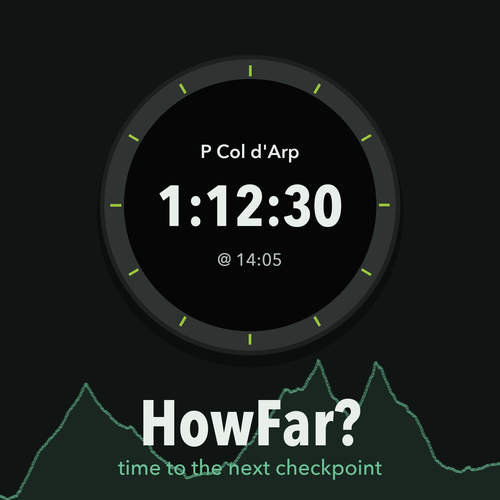
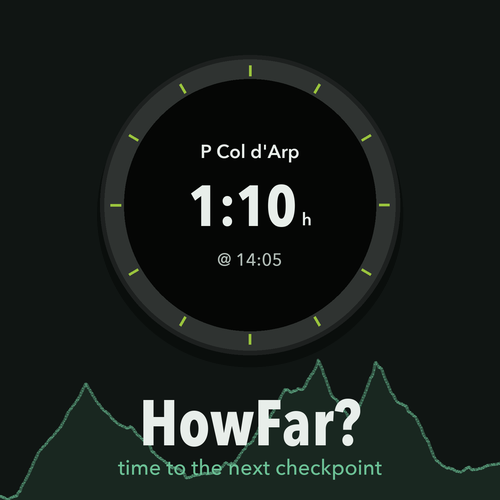
Show the time only as precisely as it's known
- Watch: h:mm in 5-minute steps from an hour out, whole minutes from 5 minutes out, m:ss in
  the last 5 minutes, with the unit in small type next to the digits; the arrival time is
  rounded the same way. Grey digits and "(learning)" for the first ~2 km of an activity.
- Site: the demo watch, the example watch and the store images show the same.
- Site: the "Compare with" key lines up with the other entry.
- Research: error_by_time.py measures how the error grows with the time left.

Changed region(s): [[0.3, 0.36, 0.69, 0.48]]

diff --git a/docs/js/demo.js b/docs/js/demo.js
@@ -32,6 +32,21 @@
     var h = Math.floor(s / 3600), m = Math.floor((s % 3600) / 60), x = s % 60;
     return h > 0 ? h + ":" + pad(m) + ":" + pad(x) : m + ":" + pad(x);
   }
+  // the countdown as the watch shows it (WpUtil.etaText): h:mm in 5-minute steps from an hour
+  // out, whole minutes from 5 minutes out, m:ss in the last 5 minutes
+  function etaStep(s) { return s >= 3450 ? 300 : s >= 300 ? 60 : 1; }
+  function etaText(s) {
+    s = Math.max(0, Math.round(s));
+    var r = Math.round(s / etaStep(s)) * etaStep(s);
+    if (r >= 3600) return [Math.floor(r / 3600) + ":" + pad(Math.floor((r % 3600) / 60)), "h"];
+    if (r >= 300) return [String(Math.round(r / 60)), "min"];
+    return [Math.floor(r / 60) + ":" + pad(r % 60), "min"];
+  }
+  // arrival clock, rounded like the countdown
+  function arrival(raceSec, e) {
+    var stepMs = (etaStep(e) >= 300 ? 5 : 1) * 60000;
+    return clockFmt.format(new Date(Math.round((startMs + (raceSec + e) * 1000) / stepMs) * stepMs));
+  }
   function hm(s) {
     s = Math.max(0, Math.round(s));
     return Math.floor(s / 3600) + " h " + pad(Math.floor((s % 3600) / 60)) + " min";
@@ -67,8 +82,10 @@
     var marker = cfg(state.main).ahead ? "P " : "~ ";
 
     $("wLabel").textContent = marker + wp.name;
-    $("wTime").textContent = dur(e);
-    $("wArrive").textContent = "@ " + clock(f[T] + e);
+    var shown = etaText(e), learning = f[CD] < 2000; // the watch greys the time for its first ~2 km
+    $("wTime").innerHTML = shown[0] + '<span class="w-unit">' + shown[1] + "</span>";
+    $("wTime").classList.toggle("learning", learning);
+    $("wArrive").textContent = "@ " + arrival(f[T], e) + (learning ? " (learning)" : "");
 
     $("raceClock").textContent = dur(f[T]);
     $("rTime").innerHTML = "<b>" + hm(f[T]) + "</b> · " + clock(f[T]) + " local time" +
@@ -77,7 +94,7 @@
     var climb = wp.alt - f[ALT];
     $("rNext").innerHTML = "<b>" + wp.name + "</b> · " + km(f[DN]) + " ahead, " +
       (climb >= 0 ? num(climb) + " m higher" : num(-climb) + " m lower");
-    $("rSays").innerHTML = "<b>" + dur(e) + "</b>, arriving at " + clock(f[T] + e);
+    $("rSays").innerHTML = "<b>" + shown[0] + " " + shown[1] + "</b>, arriving at " + arrival(f[T], e);
     $("rActual").innerHTML = "<b>" + dur(f[ACT]) + "</b>, arrived at " + clock(f[T] + f[ACT]) +
       (f[STOPA] >= 60 ? ", including " + Math.round(f[STOPA] / 60) + " min stopped" : "");
     var x = err(f, state.main);

diff --git a/docs/index.html b/docs/index.html
@@ -13,7 +13,7 @@
 <link rel="preconnect" href="https://fonts.googleapis.com">
 <link rel="preconnect" href="https://fonts.gstatic.com" crossorigin>
 <link rel="stylesheet" href="https://fonts.googleapis.com/css2?family=IBM+Plex+Mono:wght@400&family=Public+Sans:wght@400;500;600&family=Saira+Semi+Condensed:wght@500;600;700&display=swap">
-<link rel="stylesheet" href="css/site.css?v=27">
+<link rel="stylesheet" href="css/site.css?v=28">
 </head>
 <body>
 
@@ -55,11 +55,11 @@
         <p class="muted">Add HowFar? to one of your activity's data screens, load a course with checkpoints, and run. It shows three lines, four on a full-screen field.</p>
       </div>
       <div class="explain-grid">
-        <div class="watch watch-small" role="img" aria-label="Example: P Rifugio Deffeyes, 1:18:41, @ 19:12">
+        <div class="watch watch-small" role="img" aria-label="Example: P Rifugio Deffeyes, 1:20 h, @ 19:10">
           <div class="screen">
             <div class="w-label">P Rif. Deffeyes</div>
-            <div class="w-time">1:18:41</div>
-            <div class="w-arrive">@ 19:12</div>
+            <div class="w-time">1:20<span class="w-unit">h</span></div>
+            <div class="w-arrive">@ 19:10</div>
           </div>
         </div>
         <ol class="callouts">
@@ -95,7 +95,7 @@
           <div class="watch" role="img" aria-label="Watch showing the HowFar? field during the race">
             <div class="screen">
               <div class="w-label" id="wLabel">P Col d'Arp</div>
-              <div class="w-time" id="wTime">1:12:30</div>
+              <div class="w-time" id="wTime">1:10<span class="w-unit">h</span></div>
               <div class="w-arrive" id="wArrive">@ 14:05</div>
             </div>
           </div>
@@ -329,6 +329,6 @@
 </footer>
 
 <script src="demo/torx-s1.js?v=13"></script>
-<script src="js/demo.js?v=13"></script>
+<script src="js/demo.js?v=14"></script>
 </body>
 </html>

diff --git a/docs/css/site.css b/docs/css/site.css
@@ -209,6 +209,8 @@ section + section { border-top: 1px solid var(--line-soft); }
 }
 .screen .w-label { align-self: end; font: 600 9.5cqi/1.2 var(--font-body); max-width: 100%; white-space: nowrap; overflow: hidden; text-overflow: ellipsis; }
 .screen .w-time { font: 700 24cqi/1 var(--font-display); font-variant-numeric: tabular-nums; letter-spacing: 0.01em; margin-block: 2.5cqi; white-space: nowrap; }
+.screen .w-unit { font: 600 7.5cqi/1 var(--font-body); margin-left: 1.5cqi; letter-spacing: 0; }
+.screen .w-time.learning { color: var(--screen-ink-2); }
 .screen .w-arrive { align-self: start; font: 500 9cqi/1.2 var(--font-body); color: var(--screen-ink-2); font-variant-numeric: tabular-nums; }
 .watch-caption { font-size: var(--step--1); color: var(--ink-3); text-align: center; max-width: 32ch; }
 
@@ -233,7 +235,7 @@ section + section { border-top: 1px solid var(--line-soft); }
 .chart-box { position: relative; background: var(--surface); border: 1px solid var(--line); border-radius: var(--radius); padding: 10px 8px 4px; overflow-x: auto; }
 .chart-box svg { display: block; width: 100%; height: auto; cursor: crosshair; }
 .chart-box svg.wide { min-width: 560px; } /* full-width charts scroll sideways on phones instead of shrinking their labels */
-.legend { display: flex; flex-wrap: wrap; gap: 6px 16px; font-size: var(--step--1); color: var(--ink-2); }
+.legend { display: flex; flex-wrap: wrap; align-items: center; gap: 6px 16px; font-size: var(--step--1); color: var(--ink-2); }
 .legend i { display: inline-block; width: 18px; height: 3px; border-radius: 2px; vertical-align: middle; margin-right: 6px; }
 .tip {
   position: absolute; pointer-events: none; z-index: 2;

diff --git a/docs/prepare.html b/docs/prepare.html
@@ -10,7 +10,7 @@
 <link rel="preconnect" href="https://fonts.googleapis.com">
 <link rel="preconnect" href="https://fonts.gstatic.com" crossorigin>
 <link rel="stylesheet" href="https://fonts.googleapis.com/css2?family=IBM+Plex+Mono:wght@400&family=Public+Sans:wght@400;500;600&family=Saira+Semi+Condensed:wght@500;600;700&display=swap">
-<link rel="stylesheet" href="css/site.css?v=27">
+<link rel="stylesheet" href="css/site.css?v=28">
 </head>
 <body>
 

diff --git a/tools/research/error_by_time.py b/tools/research/error_by_time.py
@@ -1,0 +1,105 @@
+#!/usr/bin/env python3
+"""How does the field's error grow with the time left to the checkpoint?
+
+    python tools/research/error_by_time.py --activities FOLDER
+
+Replays the field with full race prep (past races, race-day corrections), with the course
+profile ("P") and without it ("~"), on the four races of benchmark.py and on the activities of
+at least --min-km with checkpoints where the runner stopped (see benchmark_quiet.py). For each
+band of actual moving time left it prints the typical error (median) and the error 4 times out
+of 5 stay within (80th percentile), in minutes and as a share of the time left: what a "±" on
+the watch could honestly say.
+"""
+
+from __future__ import annotations
+
+import argparse
+import sys
+from concurrent.futures import ProcessPoolExecutor
+from pathlib import Path
+
+HERE = Path(__file__).resolve().parent
+sys.path.insert(0, str(HERE))
+sys.path.insert(0, str(HERE.parent))
+
+import benchmark as B  # noqa: E402
+import benchmark_activities as BA  # noqa: E402
+import benchmark_quiet as Q  # noqa: E402
+import predictors as P  # noqa: E402
+import scenario as S  # noqa: E402
+from wpeta import model as M  # noqa: E402
+from wpeta.model import Layer  # noqa: E402
+
+BANDS = [(0, 10), (10, 20), (20, 40), (40, 60), (60, 90), (90, 120), (120, 180), (180, 600)]
+
+
+def errors(race, past, first_wp=None):
+    """(minutes left, error in minutes) for every prediction, with and without the profile."""
+    out = {}
+    for ahead in (True, False):
+        rows = S.run(race, P.HowFar(past=past, raceday=True), trail_ahead=ahead, first_wp=first_wp)
+        out["P" if ahead else "~"] = [(am / 60, (eta - am) / 60) for t, k, dn, eta, act, am in rows]
+    return out
+
+
+def race_job(key):
+    return errors(B.race(key), B.past_layer(key))
+
+
+def activity_job(args):
+    path, past = args
+    race = Q.stop_race(Path(path).name, BA.load(Path(path)))[0]
+    layer = None
+    if past:
+        layer = Layer()
+        layer.paces, layer.weights = list(past[0]), list(past[1])
+    return errors(race, layer, first_wp=1)
+
+
+def pct(xs, q):
+    xs = sorted(xs)
+    return xs[min(len(xs) - 1, int(q * len(xs)))] if xs else float("nan")
+
+
+def table(title, results):
+    print(f"\n{title}")
+    print(f"{'time left':<12} {'n':>6} {'P typical':>10} {'P 4 in 5':>9} {'P share':>8}   {'~ typical':>9} {'~ 4 in 5':>9} {'~ share':>8}")
+    for lo, hi in BANDS:
+        line = f"{lo:>4}-{hi:<4} min "
+        for mark in ("P", "~"):
+            e = [(left, err) for r in results for left, err in r[mark] if lo <= left < hi]
+            ab = [abs(err) for _, err in e]
+            share = [abs(err) / left for left, err in e if left > 1]
+            if mark == "P":
+                line += f"{len(e):>6} "
+            line += f"{pct(ab, 0.5):9.1f}m {pct(ab, 0.8):8.1f}m {pct(share, 0.8) * 100:7.0f}%   "
+        print(line)
+
+
+def main() -> int:
+    ap = argparse.ArgumentParser(description=__doc__, formatter_class=argparse.RawDescriptionHelpFormatter)
+    ap.add_argument("--activities")
+    ap.add_argument("--min-km", type=float, default=50)
+    ap.add_argument("--jobs", type=int, default=8)
+    args = ap.parse_args()
+    with ProcessPoolExecutor(args.jobs) as ex:
+        table("four races", list(ex.map(race_job, B.RACES)))
+        if args.activities:
+            acts = []
+            for f in sorted(Path(args.activities).glob("*.gpx")):
+                pts = BA.load(f)
+                if len(pts) < 100 or pts[-1].dist < args.min_km * 1000:
+                    continue
+                acts.append((BA.start_time(f), f, P.layer_from_obs(P.past_observations(pts))))
+            acts.sort(key=lambda a: a[0])
+            todo, running = [], Layer()
+            for _, f, layer in acts:
+                todo.append((str(f), (list(running.paces), list(running.weights)) if running.total_weight() else None))
+                running.merge_from(layer, M.STORED_DECAY, M.STORED_CAP)
+            table(f"{len(todo)} activities of {args.min_km:.0f} km or more, checkpoints where the runner stopped",
+                  list(ex.map(activity_job, todo, chunksize=2)))
+    return 0
+
+
+if __name__ == "__main__":
+    sys.exit(main())

diff --git a/store/make_images.py b/store/make_images.py
@@ -40,7 +40,7 @@ def text_center(d: ImageDraw.ImageDraw, cx: float, cy: float, s: str, f, fill) -
     d.text((cx * SS, cy * SS), s, font=f, fill=fill, anchor="mm")
 
 
-def watch(d: ImageDraw.ImageDraw, cx: float, cy: float, r: float, label: str, time: str, arrive: str) -> None:
+def watch(d: ImageDraw.ImageDraw, cx: float, cy: float, r: float, label: str, time: str, unit: str, arrive: str) -> None:
     """A round watch like the site's: bezel, tick ring, black screen with the field's three lines."""
     s = lambda v: v * SS
     d.ellipse([s(cx - r - 3), s(cy - r + 6), s(cx + r + 3), s(cy + r + 12)], fill=(0, 0, 0, 90))  # shadow
@@ -54,7 +54,13 @@ def watch(d: ImageDraw.ImageDraw, cx: float, cy: float, r: float, label: str, ti
     rs = r * 0.84
     d.ellipse([s(cx - rs), s(cy - rs), s(cx + rs), s(cy + rs)], fill=SCREEN)
     text_center(d, cx, cy - rs * 0.42, label, font(SANS, DEMI, rs * 0.15), INK)
-    text_center(d, cx, cy + rs * 0.02, time, font(COND, BOLD, rs * 0.46), INK)
+    # the digits big with the unit small after them, the pair centred, as on the watch
+    big, small = font(COND, BOLD, rs * 0.46), font(SANS, DEMI, rs * 0.14)
+    gap = rs * 0.04
+    dw, uw = d.textlength(time, font=big) / SS, d.textlength(unit, font=small) / SS
+    left = cx - (dw + gap + uw) / 2
+    d.text((s(left), s(cy + rs * 0.02)), time, font=big, fill=INK, anchor="lm")
+    d.text((s(left + dw + gap), s(cy + rs * 0.12)), unit, font=small, fill=INK, anchor="lm")
     text_center(d, cx, cy + rs * 0.44, arrive, font(SANS, MEDIUM, rs * 0.14), INK_2)
 
 
@@ -99,7 +105,7 @@ def cover() -> None:
     img = Image.new("RGB", (W * SS, H * SS), BG)  # RGB base so RGBA drawing blends
     d = ImageDraw.Draw(img, "RGBA")
     profile_band(d, -10, 360, W + 10, 500, fill=(108, 193, 150, 26), line=(108, 193, 150, 90), dots=False)
-    watch(d, W / 2, 205, 150, "P Col d'Arp", "1:12:30", "@ 14:05")
+    watch(d, W / 2, 205, 150, "P Col d'Arp", "1:10", "h", "@ 14:05")
     text_center(d, W / 2, 425, "HowFar?", font(COND, BOLD, 64), INK)
     text_center(d, W / 2, 468, "time to the next checkpoint", font(SANS, MEDIUM, 21), ACCENT)
     save(img, (W, H), "cover-500.png", 300)
@@ -118,7 +124,7 @@ def hero() -> None:
         y += 100
     d.text((left * SS, 385 * SS), "Learned from how you climb and descend.", font=font(SANS, MEDIUM, 28), fill=INK_2)
     d.text((left * SS, 425 * SS), "#ultratrail  #trailrunning  #skyrunning", font=font(SANS, DEMI, 22), fill=ACCENT)
-    watch(d, 1110, 285, 200, "P Rif. Deffeyes", "1:18:41", "@ 19:12")
+    watch(d, 1110, 285, 200, "P Rif. Deffeyes", "1:20", "h", "@ 19:10")
     save(img, (W, H), "hero-1440x720.png", 2048)
 
 

diff --git a/DEVELOPMENT.md b/DEVELOPMENT.md
@@ -29,6 +29,8 @@ The field counts down to the **next profile point**, not only the watch's next p
 
 On the race prep page, `docs/js/extra-points.js` finds the added points: climbs as in UltraTrailMate (profile resampled every 40 m with a 50 m median, highs and lows standing out by the chosen D+, 900 m apart), places with one Overpass query for the course's bounding box (the only network request the page makes besides loading its libraries). It can also write the course as a FIT file with every ticked checkpoint as a course point, for runners who want the watch itself to know them.
 
+**On the watch**, the time is shown only as precisely as it is known: `h:mm` in 5-minute steps from an hour out, whole minutes from 5 minutes out, `m:ss` in the last 5 minutes, each with its unit in small type (the number fonts have no letters); the arrival time is rounded the same way. For the first ~2 km of an activity (80 observations) the digits are grey and the arrival line says "(learning)": today's form is still a guess. How the error grows with the time left (`tools/research/error_by_time.py`, 4 out of 5 predictions within): about 17% of the time left on the four races with "P", about a third on long training runs with checkpoints where the runner stopped.
+
 ## Code layout
 
 | Watch (Monkey C) | Python | Browser | What |
